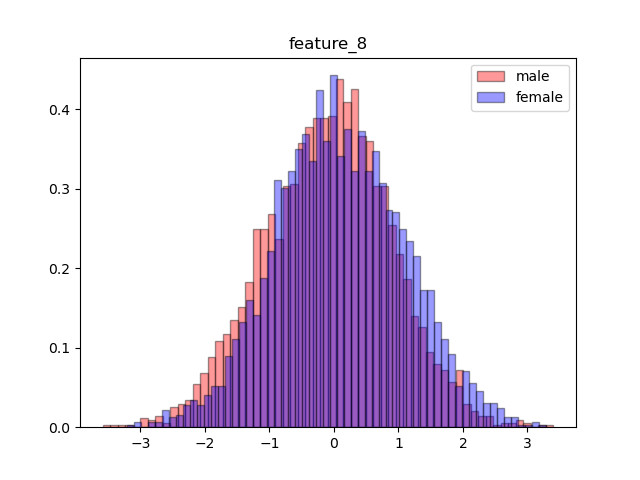
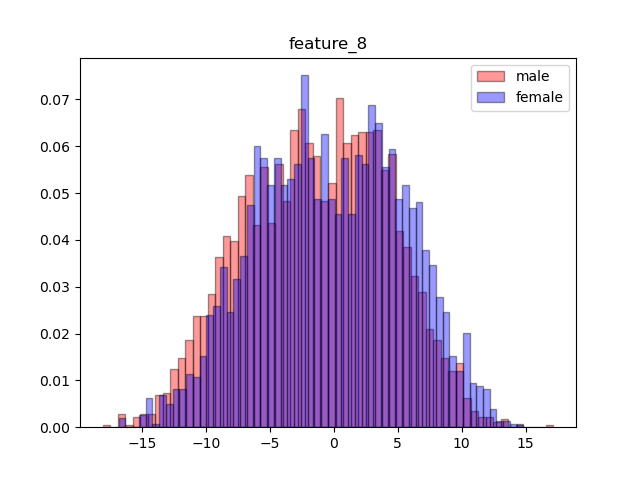
add figures and stuff

diff --git a/main.py b/main.py
@@ -6,6 +6,7 @@ from evaluators.evaluation_SVM_RFB import evaluation_SVM_RFB
 from evaluators.evaluation_SVM_polynomial import evaluation_SVM_polynomial
 from evaluators.evaluation_quad_LR import evaluation_quad_LR
 from evaluators.evaluation_weighted_LR import evaluation_weighted_LR
+from functions.calibrationFunc import calibrate_SVM
 from mlFunc import *
 from evaluators.compare_best_2 import compute_2best_plots
 from plot_features import plot_features
@@ -18,6 +19,8 @@ from validation.validation_SVM_polynomial import validation_SVM_polynomial
 from validation.validation_compare import compare_2_validation
 from validation.validation_quad_LR import validation_quad_LR
 from validation.validation_weighted_LR import validation_weighted_LR
+
+import scipy.stats
 
 def validation(DTR, LTR):
     print("############    MVG    ##############")
@@ -107,15 +110,16 @@ if __name__ == "__main__":
     DTR, LTR = randomize(DTR, LTR)
     DTE, LTE = load("Test.txt")
     DTE, LTE = randomize(DTE, LTE)
-    DTR_GAUSS = gaussianize_features(DTR, DTR)
-    plot_features(DTR, LTR, appendToTitle='RAW_')
-    plot_features(DTR, LTR, appendToTitle='GAUSSIANIZED_')
-    print("############    Validation    ##############")
-    validation(DTR, LTR)
-    print("############    Evaluation    ##############")
-    evaluation(DTR, LTR, DTE, LTE)
+    #DTR_zscore = scipy.stats.zscore(DTR)
+    #DTR_GAUSS = gaussianize_features(DTR, DTR)
+    #plot_features(DTR, LTR, appendToTitle='RAW_')
+    #plot_features(DTR_GAUSS, LTR, appendToTitle='GAUSSIANIZED_')
+    # print("############    Validation    ##############")
+    # validation(DTR, LTR)
+    # print("############    Evaluation    ##############")
+    # evaluation(DTR, LTR, DTE, LTE)
 
-
+    calibrate_SVM(DTR, LTR)
     # Warning # Warning # Warning # Warning
     # Warning # Warning # Warning # Warning
     # Warning # Warning # Warning # Warning

diff --git a/plot_features.py b/plot_features.py
@@ -1,6 +1,7 @@
 import sys
 
 import matplotlib.pyplot
+import scipy.stats
 import seaborn as sns
 
 sys.path.append("./")
@@ -24,7 +25,7 @@ def compute_correlation(X, Y):
     return corr
 
 
-def plot_correlations(DTR, title):
+def plot_correlations(DTR, title, cmap="Greys"):
     corr = numpy.zeros((12, 12))
     for x in range(12):
         for y in range(12):
@@ -34,9 +35,9 @@ def plot_correlations(DTR, title):
             corr[x][y] = pearson_elem
 
     sns.set()
-    heatmap = sns.heatmap(numpy.abs(corr), linewidth=0.2, cmap="Greys", square=True, cbar=False)
+    heatmap = sns.heatmap(numpy.abs(corr), linewidth=0.2, cmap=cmap, square=True, cbar=False)
     fig = heatmap.get_figure()
-    fig.savefig("./images/" + title + ".png")
+    fig.savefig("./images/" + title + ".svg")
 
 
 def plot_features_histograms(DTR, LTR, _title):
@@ -54,7 +55,7 @@ def plot_features_histograms(DTR, LTR, _title):
         plt.hist(y, bins=60, density=True, alpha=0.4, linewidth=1.0, color='blue', edgecolor='black',
                  label=labels[1])
         plt.legend()
-        plt.savefig('./images/hist_' + title + '.png')
+        plt.savefig('./images/hist_' + title + '.svg')
         plt.show()
 
 
@@ -71,8 +72,10 @@ def plot_PCA_LDA(DTR, LTR, m, appendToTitle=''):
     plot_histogram(DTR, LTR, ['male', 'female'], 'PCA_m=' + str(m) + ' + LDA')
 
 def plot_features(DTR, LTR, m=2, appendToTitle=''):
-    plot_features_histograms(DTR, LTR, "feature_")
+    plot_features_histograms(DTR, LTR, appendToTitle + "feature_")
     plot_correlations(DTR, "heatmap_" + appendToTitle)
+    plot_correlations(DTR[:, LTR == 0], "heatmap_male_" + appendToTitle, cmap="Blues")
+    plot_correlations(DTR[:, LTR == 1], "heatmap_female_" + appendToTitle, cmap="Reds")
     matplotlib.rcParams.update(matplotlib.rcParamsDefault)
 
     plot_PCA(DTR, LTR, m, appendToTitle)

diff --git a/functions/calibrationFunc.py b/functions/calibrationFunc.py
@@ -96,7 +96,7 @@ def kfold_SVM(DTR, LTR, K, C, appendToTitle):
     #print(calibratedDcf)
 
 
-def calibrate_SVM(DTR, LTR, appendToTitle):
-    K = 1.0
+def calibrate_SVM(DTR, LTR, appendToTitle=''):
+    K = 10.0
     C = 1.0
     kfold_SVM(DTR, LTR, K, C, appendToTitle)
